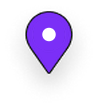
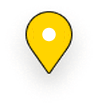
working on the map pins Colurs

Changed region(s): [[0.2449, 0.1091, 0.7347, 0.6818]]

diff --git a/src/utils/sales-pins.ts b/src/utils/sales-pins.ts
@@ -14,11 +14,22 @@ export type PinStatusFilter = 'all' | 'pendingInstall' | 'installed';
 
 export const PIN_CATEGORIES: PinCategory[] = ['uploaded', 'installed', 'pendingInstall'];
 
-/** Web map colours. `uploaded` is the existing green pin. */
+/**
+ * Ticket: "change the pending-install pin from purple to yellow, and make the installed
+ * pin the same colour as the uploaded pin (green)." Reverses the earlier spring-mint
+ * decision on `installed` — see the "Installed pin colour" follow-up in
+ * `docs/claude/maps-zone-canvasser.md` for why that one was picked, and why it no longer
+ * applies now that the two are meant to read as one colour.
+ *
+ * ⚠ `installed` and `uploaded` are now the SAME value on purpose — both the hex here and
+ * the marker PNGs (`marker-installed*.png` was recoloured to `#4CBB17` pixel-for-pixel,
+ * not re-pointed at `marker-green*.png`, so the two categories keep independent asset
+ * files that happen to render identically — easier to tell apart in a future diff).
+ */
 export const PIN_CATEGORY_META: Record<PinCategory, { label: string; color: string }> = {
   uploaded: { label: 'Uploaded', color: '#4CBB17' },
-  installed: { label: 'Installed', color: '#00FFA3' },
-  pendingInstall: { label: 'Pending install', color: '#7B2FF7' },
+  installed: { label: 'Installed', color: '#4CBB17' },
+  pendingInstall: { label: 'Pending install', color: '#FFD400' },
 };
 
 /**
@@ -82,7 +93,7 @@ export const countPinCategories = (jobs: any[]): Record<PinCategory, number> => 
 const idText = (v: any): string => (v == null ? '' : String(v).trim());
 
 /**
- * The purple pending-install pin that belongs to `lead`, or `null`.
+ * The yellow pending-install pin that belongs to `lead`, or `null`.
  *
  * Used when the Sales Map is opened FROM a lead (Lead Center -> Map): a lead that has just
  * been sold should open the map on its own pin, not only on the rep's GPS fix.

diff --git a/docs/claude/maps-zone-canvasser.md b/docs/claude/maps-zone-canvasser.md
@@ -377,6 +377,60 @@ It now behaves like the footsteps map's building-status legend (`ZoneCanvasserMa
 - `MapLegendCard` (the footsteps card) is deliberately NOT reused: it renders building-status markers;
   this card is category dots + counts (`PIN_CATEGORY_META`, `countPinCategories`).
 
+### Follow-up — Pending-install pin: purple → yellow, and installed now MATCHES uploaded (reverses the mint decision above)
+
+Ticket: *"change the pin colour for Pending Install from purple to yellow — it should show up properly
+on the map — and the uploaded pin and the installed pin colour should be same, use the uploaded pin's
+green."* This is a deliberate reversal of the follow-up directly above: that one moved `installed` to
+mint specifically so it would NOT read as the same green as `uploaded`. The premise changed — the user
+now wants the two to look like the same pin colour — so the mint decision and its "don't re-litigate"
+warning no longer apply going forward; both are struck through above rather than deleted, so the reasoning
+that led to mint is still there if a future ticket asks to tell them apart again.
+
+- **`pendingInstall` is now `#FFD400`** (was `#7B2FF7`). A saturated, high-lightness yellow chosen to
+  read clearly next to the Favorite pin's dark goldenrod `#BB8C17` (same hue family, ~43° vs ~50°, but
+  far apart on lightness/saturation — `#BB8C17` is a muted, dark "gold", `#FFD400` a bright, fully
+  saturated "yellow") and to stay out of every other pin's hue (green `#4CBB17`, red `#BB1717`, the
+  heatmap ramp).
+- **`installed` is now `#4CBB17` — literally `PIN_CATEGORY_META.uploaded.color`'s value, not a
+  new "close" green.** The two constants happen to hold the same string; see the code comment on why they
+  are still two separate lines rather than one aliasing the other.
+
+Changed in the same four places the mint follow-up changed, mirrored:
+
+- `PIN_CATEGORY_META.pendingInstall.color` / `.installed.color` (`utils/sales-pins.ts`) — the legend dot
+  in `LeadMap`.
+- The six PNGs `assets/images/map/marker-{pending,installed}{,@2x,@3x}.png`, **recoloured in place, not
+  redrawn** — same technique as the mint follow-up: every pixel classified against the ORIGINAL fill as
+  pure fill / blended-toward-black (outline) / blended-toward-white (check), each class remapped by the
+  same proportion onto the new fill, so the black outline and white check are pixel-identical before and
+  after. Verified per file: total non-transparent pixel count unchanged at every size, the white check
+  pixel count exactly unchanged, and zero pixels left with a residual cast of the old hue.
+
+⚠ **`marker-installed*.png` was recoloured, not re-pointed at `marker-green*.png`.** The two categories
+keep independent asset files that now happen to render identically. A future "make installed distinct
+again" ticket then touches one clearly-named asset rather than untangling a shared `require()` used by
+two different `iconImage` categories in both `LeadMap.tsx` and `SalesLeadPins.tsx`. Neither of those two
+files needed any change — both already resolve `installed` → `marker-installed.png` and `pendingInstall`
+→ `marker-pending.png` by name, so recolouring the file was the whole fix.
+
+⚠ **`PIN_DRAW_ORDER` was left unchanged** (`pendingInstall: 2` still above `installed: 1`, `uploaded: 0`).
+Nothing about which pins can hide behind which changed — `installed` and `uploaded` just look the same
+now, and draw order between two identically-coloured layers is moot; `pendingInstall` staying on top still
+matters, since a handful of yellow pins can still sit inside a dense green cluster exactly as the purple
+ones once did.
+
+No test change: `sales-pins.test.ts`'s 22 tests assert behaviour (which pin is found, sort order), not
+hex values, so all pass unchanged. Two present-tense comments that said "purple" (the doc comment on
+`findPendingInstallPinForLead` and one test description) were reworded; the PAST-TENSE narrative in the
+`PIN_DRAW_ORDER` comment above (*"the handful of purple pending-install pins sat inside..."*) was left
+alone — it is describing the historical bug that justified the draw order, not the pin's current colour.
+
+⚠ Needs a device check (this repo cannot render-test): the legend dot and map pins for both categories
+in Florida (dense clusters) and on an isolated sale, on satellite AND street map, at cluster and pin zoom;
+confirm the yellow doesn't get lost inside a favourite-heavy area and that installed truly reads as the
+same green as uploaded rather than "close but not quite" at a glance.
+
 ### Follow-up — Installed pin colour: dark green → spring-mint `#00FFA3`
 
 *"The installed pin and the uploaded pin colours are matched with each other — change the green shade of
@@ -389,14 +443,13 @@ uploaded pin (`#4CBB17`) at cluster zoom.
   backgrounds). It went through four colours; **`#00FFA3` is the one the user signed off** (*"the 2nd last
   colour shade is perfect"*), so treat it as final:
   `#0B6E4F` → `#00E676` → **`#00FFA3`** → magenta `#FF00C8` (reverted).
-- ⚠ **Do NOT "fix" it back to magenta or another hue.** Magenta `#FF00C8` was built and measured as the
-  mathematically best option — the only hue no other layer uses (uploaded lime, searched red, favorite amber,
-  pending purple, the heatmap ramp, the Zone Canvasser building / appointment colours), ≥ 57 ΔE from every
-  other pin and ≥ 98 from every basemap background — and the user still rejected it for the mint. Don't
-  re-litigate it from the numbers. The trade-off they accepted: mint is only ΔE ≈ 42 from lime (the pin
-  colour it shares a hue family with), and the white check on it is soft (~1.4:1). If a future ticket says
-  the installed / uploaded pins are hard to tell apart again, the free hue is magenta, and `#00E5A0`
-  (43 / 46) is the same-family option with a crisper check.
+- ~~⚠ **Do NOT "fix" it back to magenta or another hue.**~~ **SUPERSEDED below — the premise changed.**
+  Magenta `#FF00C8` was built and measured as the mathematically best option — the only hue no other layer
+  uses, ≥ 57 ΔE from every other pin and ≥ 98 from every basemap background — and the user rejected it for
+  the mint at the time. That warning assumed installed and uploaded had to stay distinguishable; the ticket
+  below asks for the opposite. If a future ticket wants them apart again, `#FF00C8` is still the free hue,
+  and `#00E5A0` the same-family option with a crisper check — see this file's git history for the full ΔE
+  table.
 - **Measured, not eyeballed** (CIELAB ΔE against nine basemap backgrounds — satellite forest / grass / brown /
   roof / water, street beige / park / water / road — and against the other pin colours): `#00FFA3` is **≈ 52
   from the nearest background, ≈ 42 from lime**; `#00E676` was 55 / 29 (too close to lime); the original
